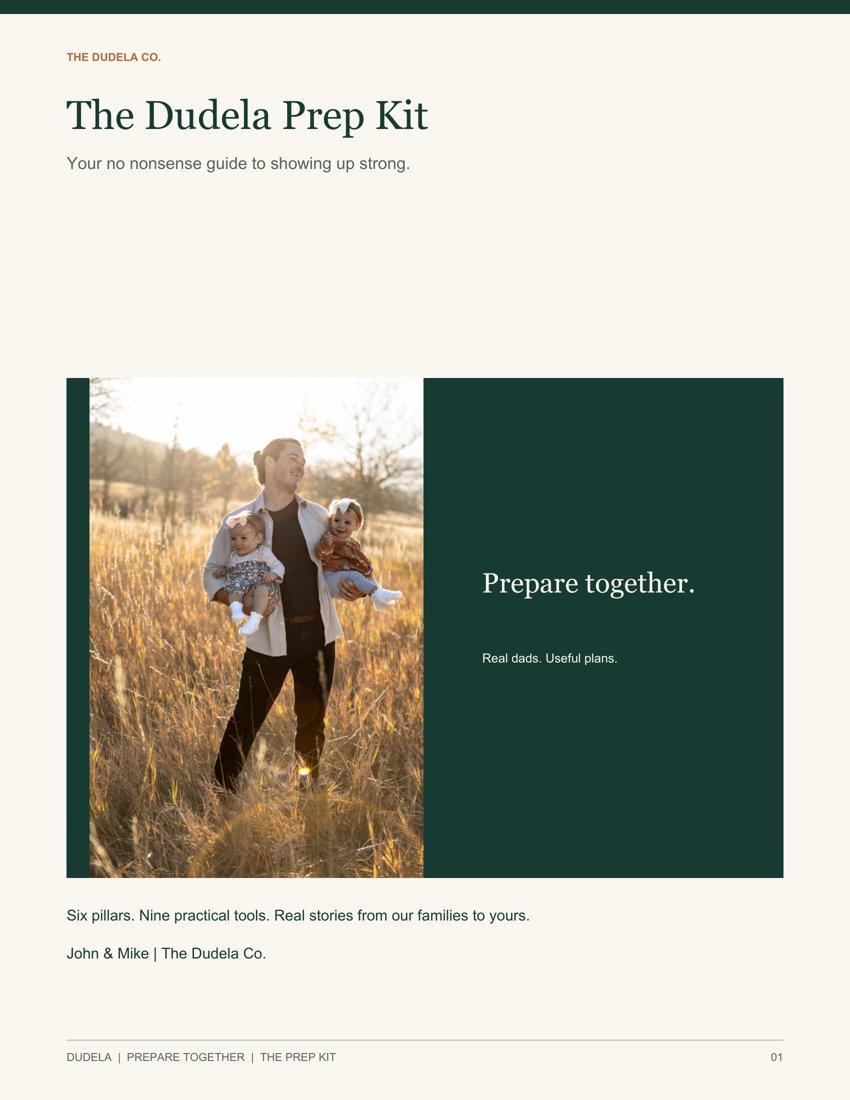
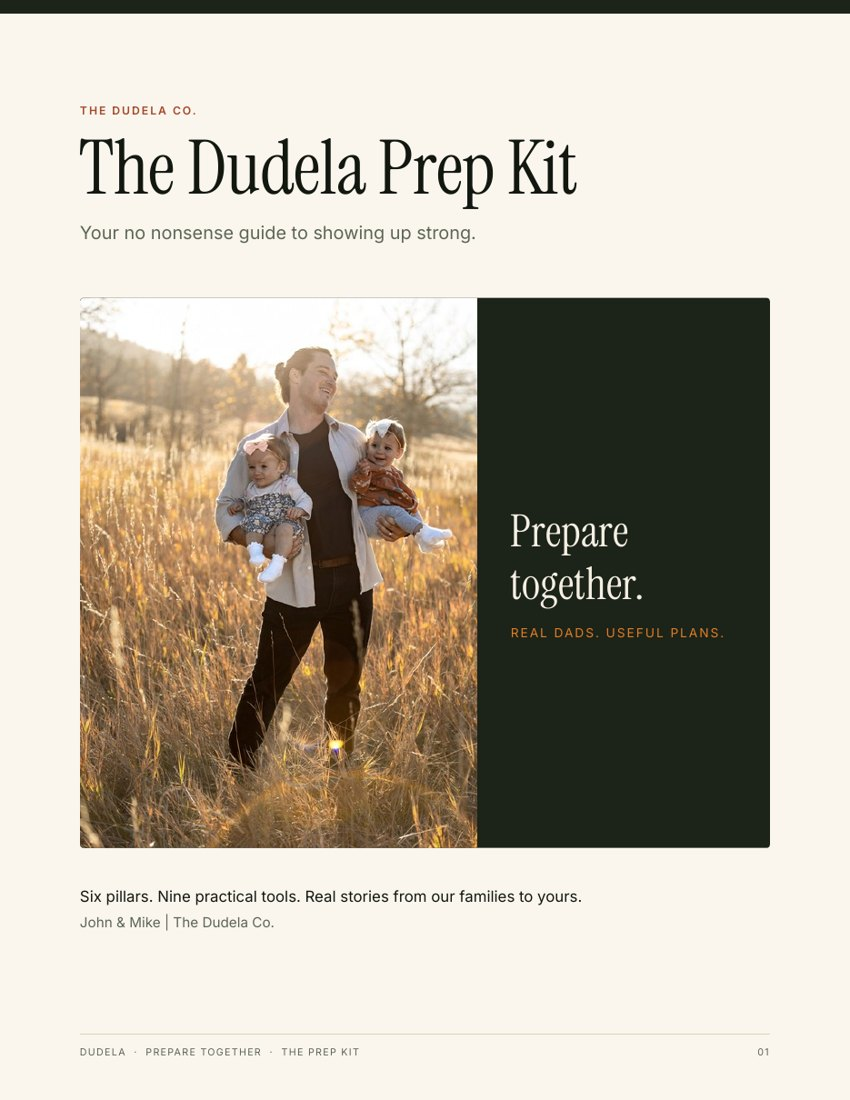
Prep Kit receipt: add first-hour plan

diff --git a/src/pages/api/stripe-webhook.ts b/src/pages/api/stripe-webhook.ts
@@ -95,6 +95,9 @@ type ProductInfo = {
   // The Dudela Workshop: receipt confirms the seat + date instead of a download.
   isWorkshop?: boolean;
   sessionLabel?: string;
+  // Prep Kit receipt: add the "first useful hour" plan under the download
+  // button so the buyer knows exactly where to start the moment it arrives.
+  firstHour?: boolean;
   // Relative /images/... path — resolved to an absolute thedudelaco.com
   // URL in receiptEmailHtml/notifyEmailHtml, same reasoning as
   // create-checkout-session.ts's priceData.image (email clients need a
@@ -111,6 +114,7 @@ export const PRODUCTS: Record<string, ProductInfo> = {
     price: "$37",
     fileName: "dudela-prep-kit.pdf",
     url: "https://thedudelaco.com/downloads/dudela-prep-kit.pdf",
+    firstHour: true,
   },
   "spit-up-society": {
     name: "The Spit-Up Society",
@@ -337,9 +341,23 @@ export function receiptEmailHtml(name: string, product: ProductInfo) {
       Thanks for grabbing <strong>${product.name}</strong> (${product.price}) — this receipt confirms your purchase.
     </p>
     ${deliveryBlock}
+    ${product.firstHour ? firstHourBlock : ""}
     <p style="color:#1c2319;font-size:15px;margin:26px 0 0;">— John &amp; Mike, Dudela</p>
   `);
 }
+
+// Added 2026-10-16. Lives in the instant receipt (not a later Loops email) so
+// the buyer gets the kit AND a clear first step in the same minute. The Loops
+// sequence starts the next day as a follow-up nudge.
+const firstHourBlock = `
+    <p style="color:#1c2319;font-size:17px;line-height:1.6;margin:8px 0 10px;"><strong>Where to start:</strong> you don't need to read all 31 pages tonight. Page 3 is a one-hour plan:</p>
+    <table role="presentation" cellpadding="0" cellspacing="0" style="width:100%;border-collapse:collapse;margin:0 0 18px;font-size:15px;color:#1c2319;">
+      <tr><td style="padding:8px 12px 8px 0;border-bottom:1px solid #ece3d1;color:#a3492b;font-weight:700;white-space:nowrap;">10 min</td><td style="padding:8px 0;border-bottom:1px solid #ece3d1;">Fill out the Readiness Map and find your gaps.</td></tr>
+      <tr><td style="padding:8px 12px 8px 0;border-bottom:1px solid #ece3d1;color:#a3492b;font-weight:700;white-space:nowrap;">20 min</td><td style="padding:8px 0;border-bottom:1px solid #ece3d1;">Sit down with your partner and hear what feels heaviest for her.</td></tr>
+      <tr><td style="padding:8px 12px 8px 0;border-bottom:1px solid #ece3d1;color:#a3492b;font-weight:700;white-space:nowrap;">20 min</td><td style="padding:8px 0;border-bottom:1px solid #ece3d1;">Build the plan for the birth and the first days home.</td></tr>
+      <tr><td style="padding:8px 12px 8px 0;color:#a3492b;font-weight:700;white-space:nowrap;">10 min</td><td style="padding:8px 0;">Name who owns the next three things, and by when.</td></tr>
+    </table>
+    <p style="color:#1c2319;font-size:15px;line-height:1.6;margin:0 0 18px;">Questions, or the link won't open? Just reply to this email. Mike and I read every one.</p>`;
 
 // Short, warm subject line per product type. Deliberately does NOT include
 // the full product name/variant string — for a bundle that string is "Bundle
